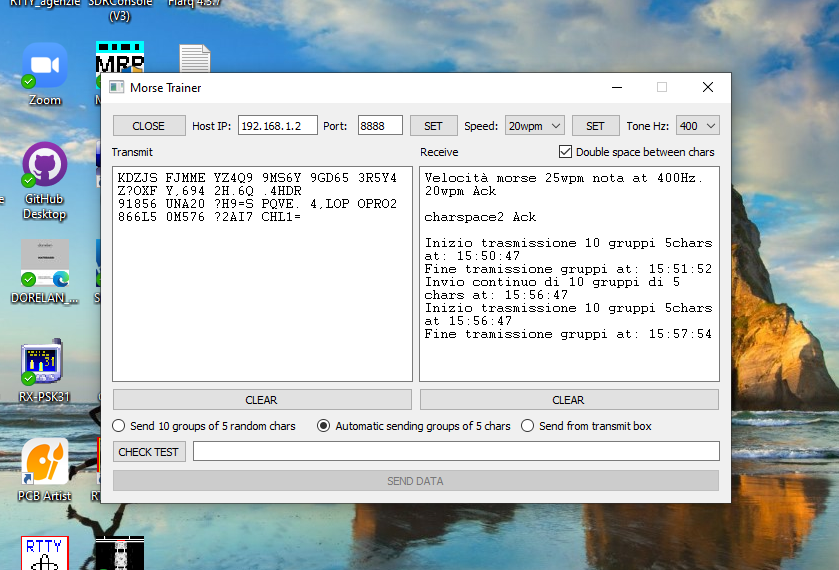
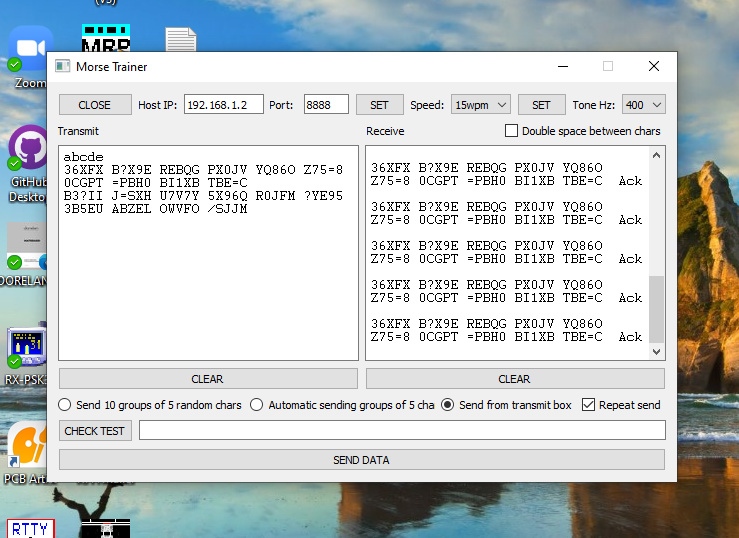
Added repeat send feature

diff --git a/src/morse_trainer.py b/src/morse_trainer.py
@@ -115,6 +115,7 @@ class App(QWidget):
         self.radiob = QRadioButton("Send 10 groups of 5 random chars")
         self.radiob1 = QRadioButton("Automatic sending groups of 5 chars")
         self.radiob2 = QRadioButton("Send from transmit box")
+        self.repeat = QCheckBox("Repeat send")
         self.radiob.clicked.connect(self.checkb)
         self.radiob1.clicked.connect(self.checkb1)
         self.radiob2.clicked.connect(self.checkb2)
@@ -122,6 +123,7 @@ class App(QWidget):
         hlast.addWidget(self.radiob)
         hlast.addWidget(self.radiob1)
         hlast.addWidget(self.radiob2)
+        hlast.addWidget(self.repeat)
         self.layout.addLayout(hlast)
         hnlast = QHBoxLayout()
         self.ckbutt =  QPushButton("CHECK TEST",self)
@@ -356,7 +358,11 @@ class App(QWidget):
                     self.rcv.append(rcvData)
                 else:
                     self.rcv.append(sendData+" "+rcvData)
-            
+                    if(self.repeat.isChecked() == True):
+                        if(self.radiob1.isChecked() == False):
+                            time.sleep(2)
+                            self.invia_comandi(sendData)
+
 
     def onCountChanged(self, value):
         currTime = datetime.datetime.now().strftime("%H:%M:%S")

diff --git a/README.md b/README.md
@@ -11,7 +11,7 @@ Basically the text entered in the transmit window is sent to the keyer to be pla
 
 This way the user can test his ability and trained to improve it comparing the data detected in morse with the final display of what was actually sent. The codes values interpreted listening to the buzzer can be written in the CHECK TEST text box and the response regarding its correctness can be gotten clicking the push button. Each sequence can be easyly repeated since it is kept in the transmit window.
 
-Another added feature is the possibility to continuosly send 10 groups of 5 random chars every two minutes.
+Other added features are the possibility to continuosly send 10 groups of 5 random chars every two minutes or continuosly send what is in the transmit pane if the "Repeat send" checkbox is checked.
 
 ### standar time spacing between morse sounds
 The standard time spacing between dit / dah is 1 dit, the spacing between characters is 3xdit, the spacing between words is 7xdit. The application provides the possibility to double those spacing time just checking the "Double space between chars" checkbox to instruct the conpanion TCP keyer server. This is an additional feature aimed to ease the learnig curve of the morse code.
